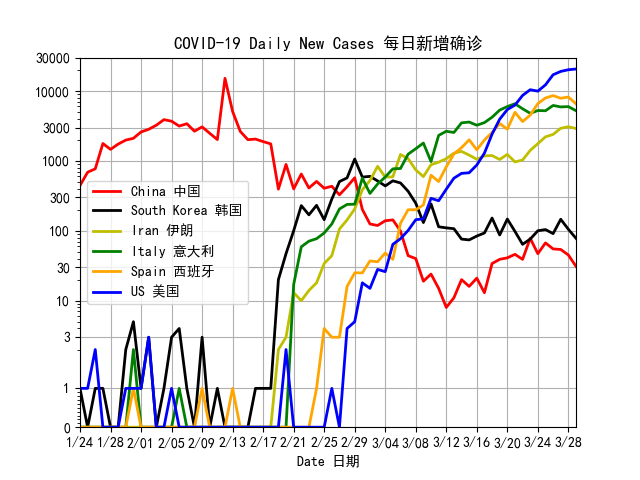
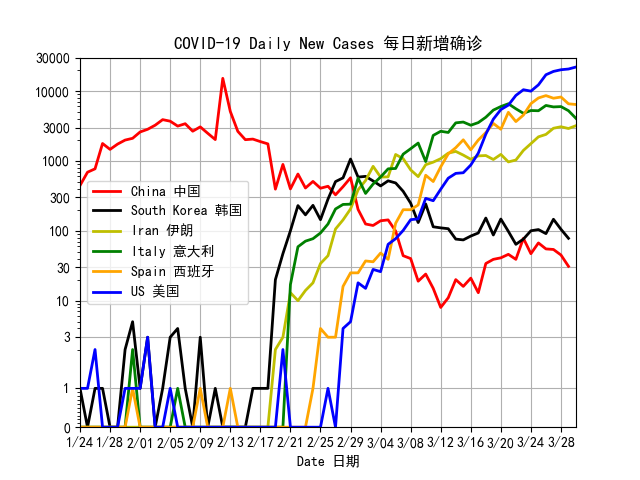
updated for Mar 30 data

Changed region(s): [[0.125, 0.125, 0.9062, 0.9375], [0.1562, 0.2812, 0.2188, 0.3438]]

diff --git a/README.md b/README.md
@@ -2,6 +2,8 @@
 
 ![NewCases 各国新增](/Countries.png)
 
+![NewCases 各国新增 vs Sum 累计](/DailyCountries.png)
+
 ![China CurrentCases 全国现有](/CurrentCases.png)
 
 ![China NewCases 全国新增](/NewCases.png)
